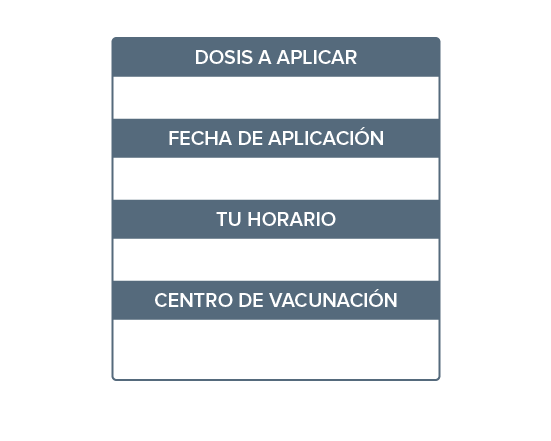
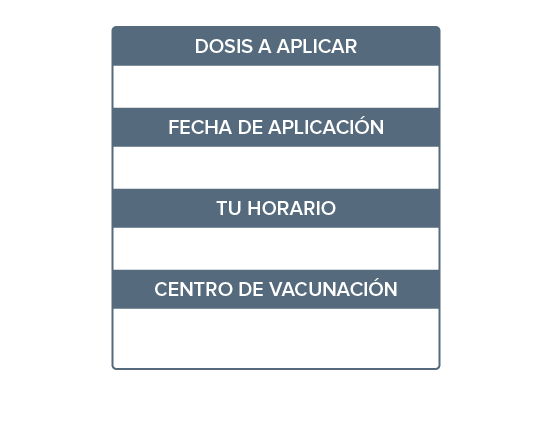
UN BOTON MAS Y CAMBIO DE FOFON

diff --git a/VacunasGestor JavaAttak ex78/src/Vistas/Vistas_Ciudadano/Cuenta_Ciudadano.java b/VacunasGestor JavaAttak ex78/src/Vistas/Vistas_Ciudadano/Cuenta_Ciudadano.java
@@ -526,7 +526,7 @@ public class Cuenta_Ciudadano extends javax.swing.JInternalFrame {
         jText_FechaPT.setBorder(null);
         jText_FechaPT.setOpaque(false);
         jPanel5.add(jText_FechaPT);
-        jText_FechaPT.setBounds(130, 160, 298, 40);
+        jText_FechaPT.setBounds(130, 150, 298, 40);
 
         jText_CentroPT.setFont(new java.awt.Font("Proxima Nova Rg", 0, 17)); // NOI18N
         jText_CentroPT.setForeground(new java.awt.Color(85, 106, 124));
@@ -534,7 +534,7 @@ public class Cuenta_Ciudadano extends javax.swing.JInternalFrame {
         jText_CentroPT.setBorder(null);
         jText_CentroPT.setOpaque(false);
         jPanel5.add(jText_CentroPT);
-        jText_CentroPT.setBounds(120, 320, 310, 30);
+        jText_CentroPT.setBounds(120, 310, 310, 30);
 
         jText_Centro_DirPT.setFont(new java.awt.Font("Proxima Nova Rg", 0, 17)); // NOI18N
         jText_Centro_DirPT.setForeground(new java.awt.Color(85, 106, 124));
@@ -542,16 +542,21 @@ public class Cuenta_Ciudadano extends javax.swing.JInternalFrame {
         jText_Centro_DirPT.setBorder(null);
         jText_Centro_DirPT.setOpaque(false);
         jPanel5.add(jText_Centro_DirPT);
-        jText_Centro_DirPT.setBounds(120, 350, 310, 30);
+        jText_Centro_DirPT.setBounds(120, 340, 310, 30);
 
-        jButton1.setText("Cancelar Cita");
+        jButton1.setIcon(new javax.swing.ImageIcon(getClass().getResource("/Vistas/Imagenes/CANCELAR TURNO 01.png"))); // NOI18N
+        jButton1.setBorder(null);
+        jButton1.setMaximumSize(new java.awt.Dimension(118, 34));
+        jButton1.setMinimumSize(new java.awt.Dimension(118, 34));
+        jButton1.setPreferredSize(new java.awt.Dimension(118, 34));
+        jButton1.setRolloverIcon(new javax.swing.ImageIcon(getClass().getResource("/Vistas/Imagenes/CANCELAR TURNO 02.png"))); // NOI18N
         jButton1.addActionListener(new java.awt.event.ActionListener() {
             public void actionPerformed(java.awt.event.ActionEvent evt) {
                 jButton1ActionPerformed(evt);
             }
         });
         jPanel5.add(jButton1);
-        jButton1.setBounds(300, 390, 145, 23);
+        jButton1.setBounds(320, 380, 118, 34);
 
         jText_DosisPT.setFont(new java.awt.Font("Proxima Nova Rg", 0, 18)); // NOI18N
         jText_DosisPT.setForeground(new java.awt.Color(85, 106, 124));
@@ -559,16 +564,17 @@ public class Cuenta_Ciudadano extends javax.swing.JInternalFrame {
         jText_DosisPT.setBorder(null);
         jText_DosisPT.setOpaque(false);
         jPanel5.add(jText_DosisPT);
-        jText_DosisPT.setBounds(130, 80, 298, 40);
+        jText_DosisPT.setBounds(130, 70, 298, 40);
 
-        jButton2.setText("Asignar Horario");
+        jButton2.setIcon(new javax.swing.ImageIcon(getClass().getResource("/Vistas/Imagenes/ASIGNAR HORARIO 01.png"))); // NOI18N
+        jButton2.setRolloverIcon(new javax.swing.ImageIcon(getClass().getResource("/Vistas/Imagenes/ASIGNAR HORARIO 02.png"))); // NOI18N
         jButton2.addActionListener(new java.awt.event.ActionListener() {
             public void actionPerformed(java.awt.event.ActionEvent evt) {
                 jButton2ActionPerformed(evt);
             }
         });
         jPanel5.add(jButton2);
-        jButton2.setBounds(110, 390, 147, 23);
+        jButton2.setBounds(110, 380, 126, 34);
 
         jText_HorarioPT.setFont(new java.awt.Font("Proxima Nova Rg", 0, 18)); // NOI18N
         jText_HorarioPT.setForeground(new java.awt.Color(85, 106, 124));
@@ -576,7 +582,7 @@ public class Cuenta_Ciudadano extends javax.swing.JInternalFrame {
         jText_HorarioPT.setBorder(null);
         jText_HorarioPT.setOpaque(false);
         jPanel5.add(jText_HorarioPT);
-        jText_HorarioPT.setBounds(130, 240, 300, 40);
+        jText_HorarioPT.setBounds(130, 230, 300, 40);
 
         jLabel5.setIcon(new javax.swing.ImageIcon(getClass().getResource("/Vistas/Imagenes/PROXIMO TURNO-06.png"))); // NOI18N
         jLabel5.setText("jLabel5");
